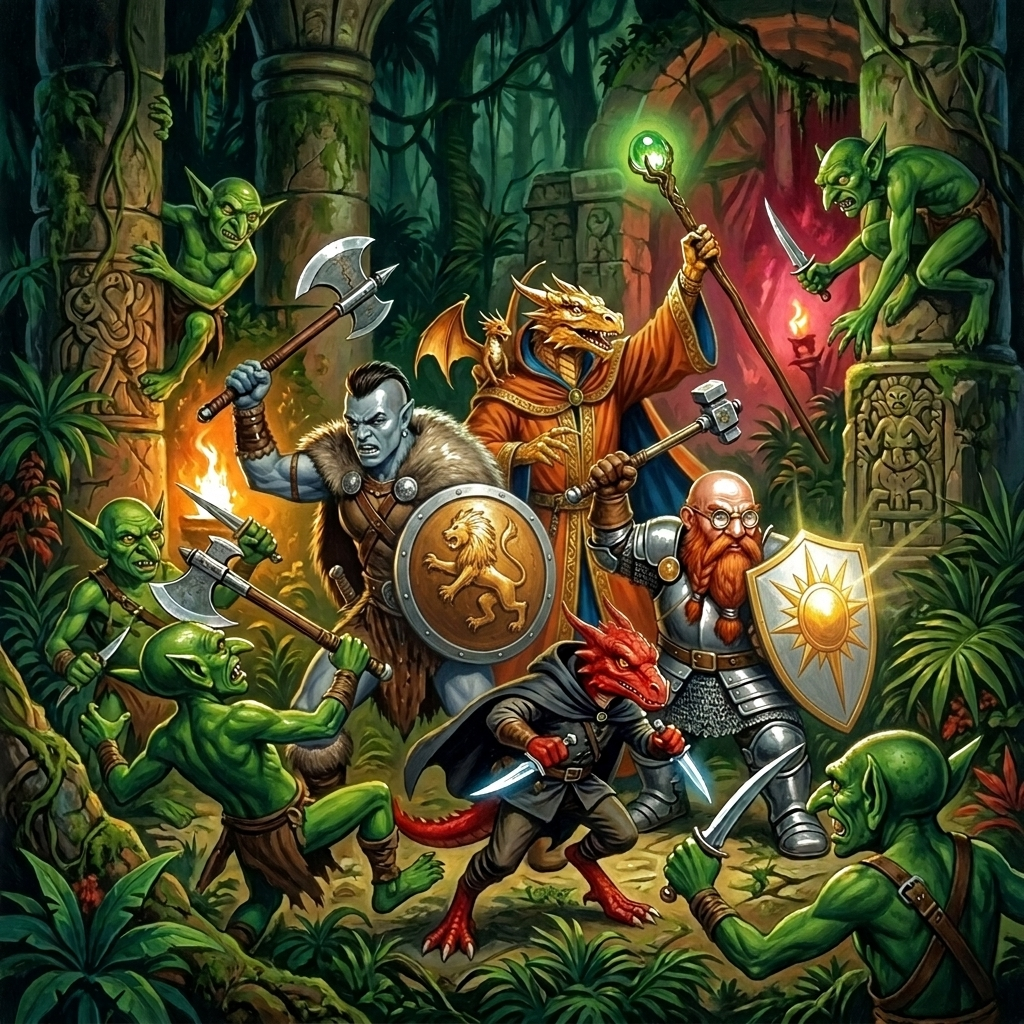
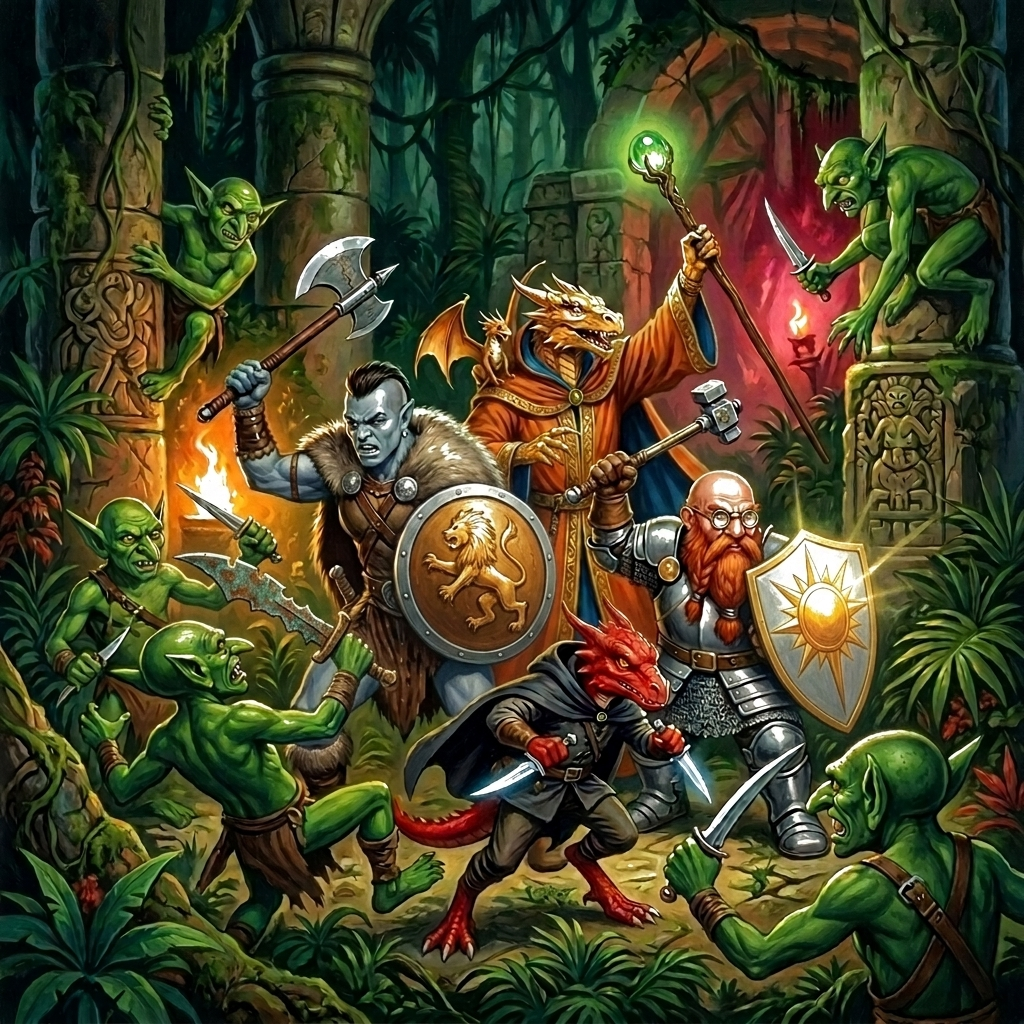
fix: replace bottom-left goblin battleaxe with rusty notched scimitar [skip netlify]

diff --git a/src/lib/build-info.ts b/src/lib/build-info.ts
@@ -1,3 +1,3 @@
 // Generated by scripts/write-build-info.mjs — do not edit
-export const SITE_EDITION = "7663754";
-export const SITE_BUILT_AT = "2026-07-27T12:13:44.312Z";
+export const SITE_EDITION = "6132b28";
+export const SITE_BUILT_AT = "2026-07-27T12:14:42.032Z";
